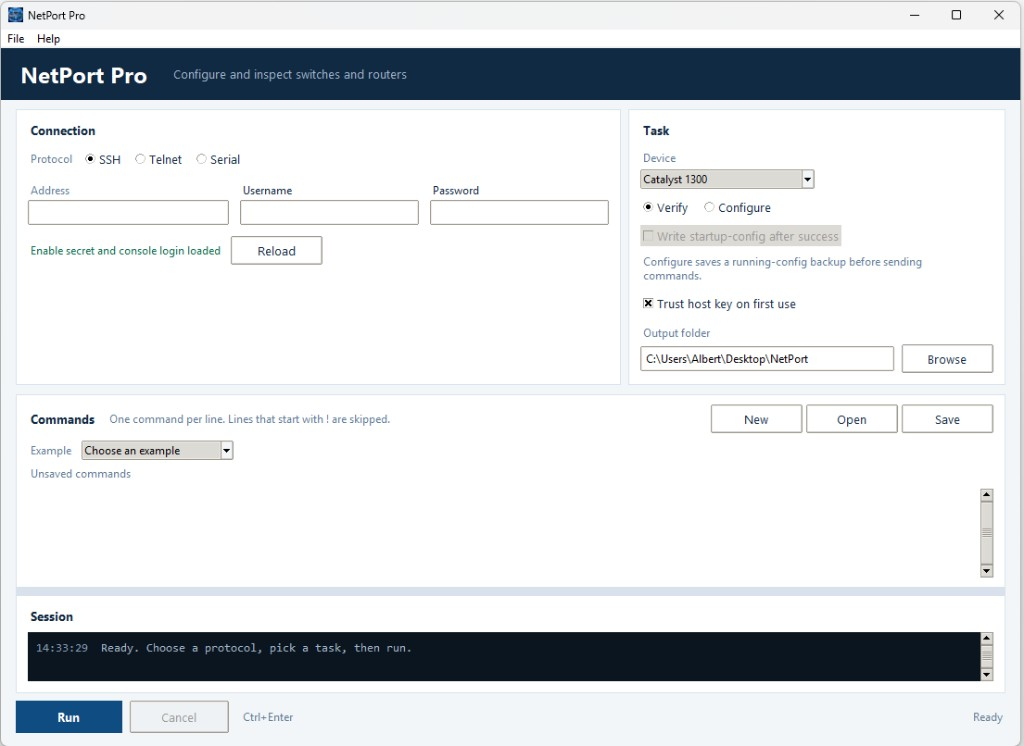
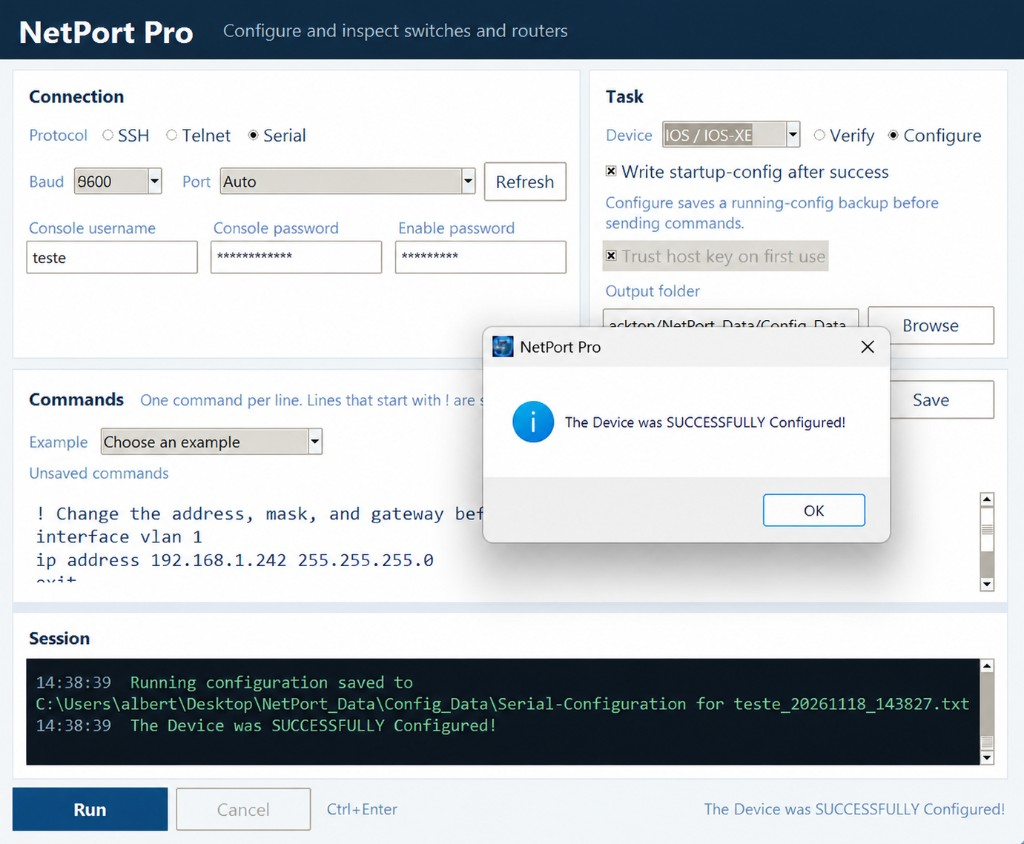
Show a successful NetPort Pro configuration in the Products screenshot.

diff --git a/src/app/product/page.tsx b/src/app/product/page.tsx
@@ -116,7 +116,7 @@ export default async function ProductPage({
             <p className={product.note}>{copy.windowsNote}</p>
             <img
               className={product.shot}
-              src="/images/product/netport-pro.png?v=4"
+              src="/images/product/netport-pro.png?v=5"
               alt={copy.screenshotAlt}
             />
             <ReviewSection initialReviews={reviews} copy={copy} locale={locale} />
